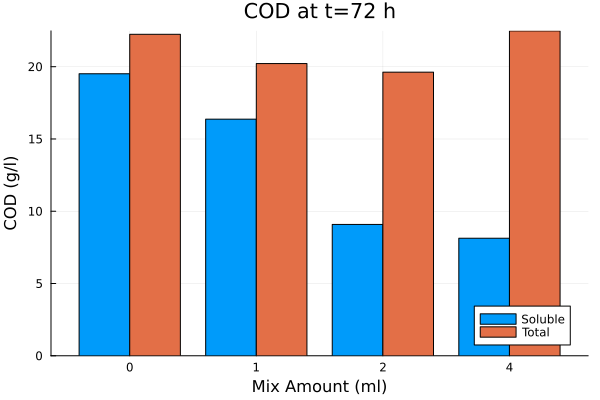
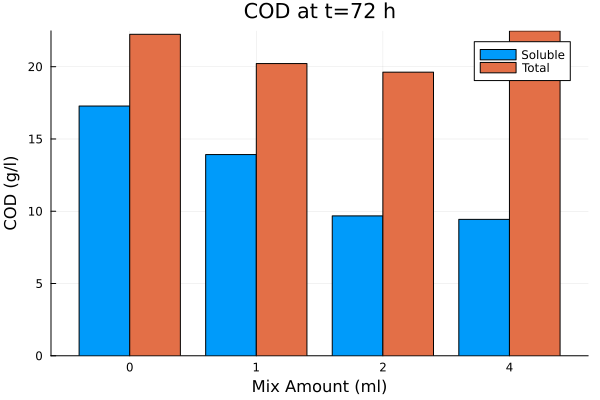
Correcting the COD data for the final hydrolysates.

diff --git a/reports/hydrolysis_ad_present.html b/reports/hydrolysis_ad_present.html
@@ -146,7 +146,7 @@ text-transform: none;
 </p>
 
 
-<div id="org4ce6417" class="figure">
+<div id="orgf22f5be" class="figure">
 <p><img src="../plots/35_40_comp/final_products.png" alt="final_products.png" width="900px" />
 </p>
 </div>
@@ -159,13 +159,13 @@ text-transform: none;
 </p>
 
 
-<div id="org6d15689" class="figure">
+<div id="org618e21c" class="figure">
 <p><img src="../plots/35_40_comp/acidification_comp.png" alt="acidification_comp.png" align="left" width="800px" class="fragment roll-in" />
 </p>
 </div>
 
 
-<div id="orgae2af88" class="figure">
+<div id="orgddfffea" class="figure">
 <p><img src="../plots/35_40_comp/Δprod.png" alt="Δprod.png" align="right" width="800px" class="fragment roll-in" />
 </p>
 </div>
@@ -177,7 +177,7 @@ text-transform: none;
 Ως ένα τελευταίο αποτέλεσμα, παρουσιάζεται μία ανάλυση ευαισθησίας.
 </p>
 
-<div id="orgaa5ecae" class="figure">
+<div id="org5fd39c0" class="figure">
 <p><img src="../plots/sensitivity/global_tornado.png" alt="global_tornado.png" width="800px" />
 </p>
 </div>
@@ -194,7 +194,7 @@ text-transform: none;
 </p>
 
 
-<div id="org35ae5ea" class="figure">
+<div id="org759ce02" class="figure">
 <p><img src="../plots/sensitivity/temperature_tornado.png" alt="temperature_tornado.png" width="800px" />
 </p>
 </div>
@@ -206,7 +206,7 @@ text-transform: none;
 Όμως, αν περιορίσουμε τις ποσότητες μιξ στα 2-8 ml, βλέπουμε πως αυτή η θετική ευαισθησία έχει πρακτικά χαθεί, οπότε πιθανότατα δεν έχει νόημα να πάμε πάνω από 2 ml.
 </p>
 
-<div id="orga989351" class="figure">
+<div id="org57d5451" class="figure">
 <p><img src="../plots/sensitivity/tornado_high.png" alt="tornado_high.png" />
 </p>
 </div>
@@ -229,13 +229,13 @@ text-transform: none;
 Για να τρέξουμε την αναερόβια χώνευση, προετοιμάσαμε καινούργια υδρολύματα καθώς τα προηγούμενα δεν είχαν αποθηκευτεί. Σε αυτά έχουν μετρηθεί TS, VS, sCOD και tCOD.
 </p>
 
-<div id="org7511e7e" class="figure">
+<div id="orge00c7ae" class="figure">
 <p><img src="../plots/26_03/complete_cod_bar_26_03.png" alt="complete_cod_bar_26_03.png" align="left" width="750px" class="fragment roll-in" />
 </p>
 </div>
 
 
-<div id="org08cf9c5" class="figure">
+<div id="org586be0f" class="figure">
 <p><img src="../plots/26_03/ts_vs_bar_plot_26_03.png" alt="ts_vs_bar_plot_26_03.png" align="right" width="700px" class="fragment roll-in" />
 </p>
 </div>
@@ -251,7 +251,7 @@ text-transform: none;
 <section id="slide-5-1">
 <h3 id="5-1"><span class="section-number-3">5.1.</span> Πειραματική Διάταξη</h3>
 
-<div id="org61a29fa" class="figure">
+<div id="org0a211d5" class="figure">
 <p><img src="IMG_20240327_185818.jpg" alt="IMG_20240327_185818.jpg" width="700px" />
 </p>
 </div>
@@ -330,13 +330,13 @@ text-transform: none;
 <section id="slide-6-1">
 <h3 id="6-1"><span class="section-number-3">6.1.</span> Δείγμα 0</h3>
 
-<div id="org069229e" class="figure">
+<div id="orge568019" class="figure">
 <p><img src="../plots/BMPs/Hydrolyzed FW/methane_kinetics_hydrolysate_0_s1_r1_hour.png" alt="methane_kinetics_hydrolysate_0_s1_r1_hour.png" align="right" width="900px" />
 </p>
 </div>
 
 
-<div id="org58395a0" class="figure">
+<div id="orga56f27d" class="figure">
 <p><img src="../plots/BMPs/Acetate/methane_kinetics_acet_test_0_s1_min.png" alt="methane_kinetics_acet_test_0_s1_min.png" align="left" width="900px" />
 </p>
 </div>
@@ -345,13 +345,13 @@ text-transform: none;
 <section id="slide-6-2">
 <h3 id="6-2"><span class="section-number-3">6.2.</span> Δείγμα 1</h3>
 
-<div id="orgc72656b" class="figure">
+<div id="org97c3d25" class="figure">
 <p><img src="../plots/BMPs/Hydrolyzed FW/methane_kinetics_hydrolysate_1_s1_r1_hour.png" alt="methane_kinetics_hydrolysate_1_s1_r1_hour.png" align="right" width="900px" />
 </p>
 </div>
 
 
-<div id="org0759712" class="figure">
+<div id="orged12b00" class="figure">
 <p><img src="../plots/BMPs/Acetate/methane_kinetics_acet_test_1_s1_min.png" alt="methane_kinetics_acet_test_1_s1_min.png" align="left" width="900px" />
 </p>
 </div>
@@ -360,13 +360,13 @@ text-transform: none;
 <section id="slide-6-3">
 <h3 id="6-3"><span class="section-number-3">6.3.</span> Δείγμα 2</h3>
 
-<div id="org71e8867" class="figure">
+<div id="org9ec3a55" class="figure">
 <p><img src="../plots/BMPs/Hydrolyzed FW/methane_kinetics_hydrolysate_2_s1_r1_hour.png" alt="methane_kinetics_hydrolysate_2_s1_r1_hour.png" align="right" width="900px" />
 </p>
 </div>
 
 
-<div id="org80c8e32" class="figure">
+<div id="org30a6e3e" class="figure">
 <p><img src="../plots/BMPs/Acetate/methane_kinetics_acet_test_2_s1_min.png" alt="methane_kinetics_acet_test_2_s1_min.png" align="left" width="900px" />
 </p>
 </div>
@@ -375,13 +375,13 @@ text-transform: none;
 <section id="slide-6-4">
 <h3 id="6-4"><span class="section-number-3">6.4.</span> Δείγμα 4</h3>
 
-<div id="org9f777ed" class="figure">
+<div id="org3af11d7" class="figure">
 <p><img src="../plots/BMPs/Acetate/methane_kinetics_acet_test_4_s1_min.png" alt="methane_kinetics_acet_test_4_s1_min.png" align="left" width="900px" />
 </p>
 </div>
 
 
-<div id="orgd5f17fb" class="figure">
+<div id="orge9ebc2b" class="figure">
 <p><img src="../plots/BMPs/Hydrolyzed FW/methane_kinetics_hydrolysate_4_s1_r1_hour.png" alt="methane_kinetics_hydrolysate_4_s1_r1_hour.png" align="right" width="900px" />
 </p>
 </div>
@@ -390,13 +390,13 @@ text-transform: none;
 <section id="slide-6-5">
 <h3 id="6-5"><span class="section-number-3">6.5.</span> Untreated FW</h3>
 
-<div id="org24f863e" class="figure">
+<div id="org3921e0e" class="figure">
 <p><img src="../plots/BMPs/Untreated FW/methane_kinetics_untreated_fw_s1_r1_hour.png" alt="methane_kinetics_untreated_fw_s1_r1_hour.png" align="right" width="900px" />
 </p>
 </div>
 
 
-<div id="org752f376" class="figure">
+<div id="org210bcdd" class="figure">
 <p><img src="../plots/BMPs/Acetate/methane_kinetics_acet_test_fw_s1_min.png" alt="methane_kinetics_acet_test_fw_s1_min.png" align="left" width="900px" />
 </p>
 </div>
@@ -416,13 +416,13 @@ text-transform: none;
 </p>
 
 
-<div id="org42aa262" class="figure">
+<div id="org8a88a74" class="figure">
 <p><img src="../plots/BMPs/Hydrolyzed FW/methane_kinetics_hydrolysate_0_s1_r2_hour.png" alt="methane_kinetics_hydrolysate_0_s1_r2_hour.png" align="right" width="900px" />
 </p>
 </div>
 
 
-<div id="org036d5cb" class="figure">
+<div id="org7bf0e55" class="figure">
 <p><img src="../plots/BMPs/Acetate/methane_kinetics_acet_test_0_s1_min.png" alt="methane_kinetics_acet_test_0_s1_min.png" align="left" width="900px" />
 </p>
 </div>
@@ -435,13 +435,13 @@ text-transform: none;
 </p>
 
 
-<div id="org6f0789d" class="figure">
+<div id="org31e4779" class="figure">
 <p><img src="../plots/BMPs/Hydrolyzed FW/methane_kinetics_hydrolysate_1_s1_r2_hour.png" alt="methane_kinetics_hydrolysate_1_s1_r2_hour.png" align="right" width="900px" />
 </p>
 </div>
 
 
-<div id="org15cfe91" class="figure">
+<div id="orgf858fcb" class="figure">
 <p><img src="../plots/BMPs/Acetate/methane_kinetics_acet_test_1_s1_min.png" alt="methane_kinetics_acet_test_1_s1_min.png" align="left" width="900px" />
 </p>
 </div>
@@ -454,13 +454,13 @@ text-transform: none;
 </p>
 
 
-<div id="org665c305" class="figure">
+<div id="org803c1cc" class="figure">
 <p><img src="../plots/BMPs/Hydrolyzed FW/methane_kinetics_hydrolysate_2_s1_r2_hour.png" alt="methane_kinetics_hydrolysate_2_s1_r2_hour.png" align="right" width="900px" />
 </p>
 </div>
 
 
-<div id="org02acd0d" class="figure">
+<div id="org058131a" class="figure">
 <p><img src="../plots/BMPs/Acetate/methane_kinetics_acet_test_2_s1_min.png" alt="methane_kinetics_acet_test_2_s1_min.png" align="left" width="900px" />
 </p>
 </div>
@@ -473,13 +473,13 @@ text-transform: none;
 </p>
 
 
-<div id="org7f43f53" class="figure">
+<div id="org2e141df" class="figure">
 <p><img src="../plots/BMPs/Acetate/methane_kinetics_acet_test_4_s1_min.png" alt="methane_kinetics_acet_test_4_s1_min.png" align="left" width="900px" />
 </p>
 </div>
 
 
-<div id="org6da5f04" class="figure">
+<div id="orgddc1e2a" class="figure">
 <p><img src="../plots/BMPs/Hydrolyzed FW/methane_kinetics_hydrolysate_4_s1_r2_hour.png" alt="methane_kinetics_hydrolysate_4_s1_r2_hour.png" align="right" width="900px" />
 </p>
 </div>
@@ -492,13 +492,13 @@ text-transform: none;
 </p>
 
 
-<div id="org038d1a9" class="figure">
+<div id="orge0cd639" class="figure">
 <p><img src="../plots/BMPs/Untreated FW/methane_kinetics_untreated_fw_s1_r2_hour.png" alt="methane_kinetics_untreated_fw_s1_r2_hour.png" align="right" width="900px" />
 </p>
 </div>
 
 
-<div id="orgd3a6303" class="figure">
+<div id="org8bd6fb1" class="figure">
 <p><img src="../plots/BMPs/Acetate/methane_kinetics_acet_test_fw_s1_min.png" alt="methane_kinetics_acet_test_fw_s1_min.png" align="left" width="900px" />
 </p>
 </div>
@@ -518,13 +518,13 @@ text-transform: none;
 <section id="slide-8-1">
 <h3 id="8-1"><span class="section-number-3">8.1.</span> Βιοχημικό Δυναμικό Μεθανίου (BMP)</h3>
 
-<div id="org920633a" class="figure">
+<div id="orgcf96020" class="figure">
 <p><img src="../plots/BMPs/Hydrolyzed FW/acet_vs_hydro_bmp_s1_r1.png" alt="acet_vs_hydro_bmp_s1_r1.png" align="left" width="900px" />
 </p>
 </div>
 
 
-<div id="orgaabd08a" class="figure">
+<div id="orgc434746" class="figure">
 <p><img src="../plots/BMPs/Hydrolyzed FW/acet_vs_hydro_bmp_s1_r2.png" alt="acet_vs_hydro_bmp_s1_r2.png" align="right" width="900px" />
 </p>
 </div>
